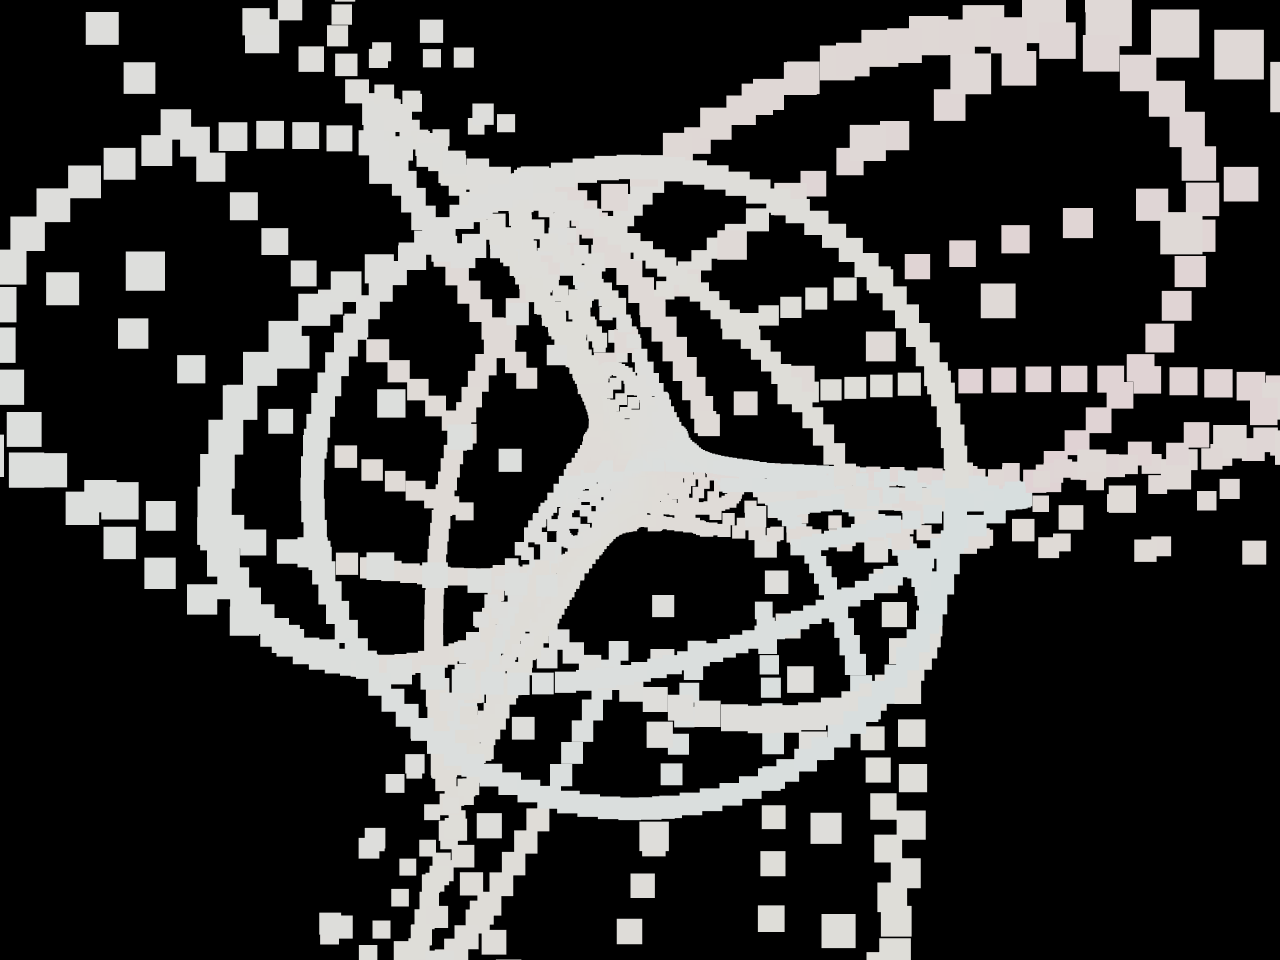
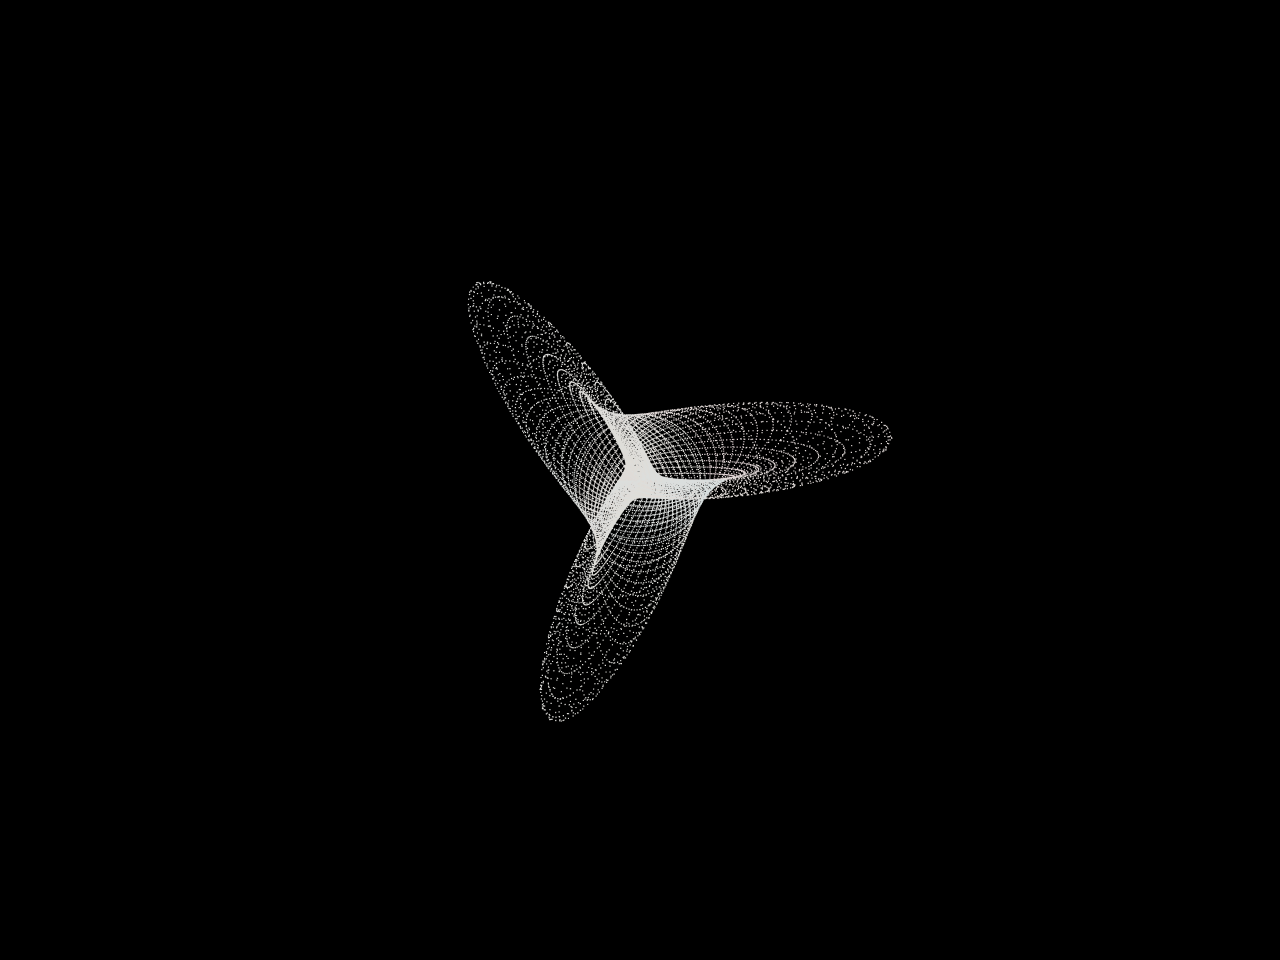
Restore Boy jury framing; only bump particle count.

diff --git a/packages/frontend/src/utils/boySurface.ts b/packages/frontend/src/utils/boySurface.ts
@@ -5,8 +5,6 @@ const SQRT5 = Math.sqrt(5)
 const U_RES = 80
 const V_RES = 80
 const TARGET_R = 1.7
-/** Trails / wires fill the frame better than the mesh scale. */
-const TARGET_R_TRAIL = 3.1
 
 export type BoyPoint = {
 	x: number
@@ -220,7 +218,7 @@ export function sampleBoyCloud(nu = 96, nv = 96): BoyCloud {
  * Row-major UV scan as one polyline (legacy line trail).
  * Odd rows reverse so the strip snakes continuously.
  */
-export function sampleBoyScanline(nu = 160, nv = 96): BoyCloud {
+export function sampleBoyScanline(nu = 200, nv = 140): BoyCloud {
 	const count = nu * nv
 	const positions = new Float32Array(count * 3)
 	const colors = new Float32Array(count * 3)
@@ -241,15 +239,12 @@ export function sampleBoyScanline(nu = 160, nv = 96): BoyCloud {
 			k += 3
 		}
 	}
-	centerAndScale(positions, TARGET_R_TRAIL)
-	return thinNearOrigin(positions, colors, 0.32)
+	centerAndScale(positions, TARGET_R)
+	return { positions, colors, count }
 }
 
-/**
- * Constant-u / constant-v curves as a point wire.
- * Fewer curves than a dense grid — keeps the triple-point open instead of a white clump.
- */
-export function sampleBoyIsolines(nu = 18, nv = 18, samples = 96): BoyCloud {
+/** Constant-u / constant-v curves as a dense point wire. */
+export function sampleBoyIsolines(nu = 64, nv = 64, samples = 200): BoyCloud {
 	const count = (nu + nv) * samples
 	const positions = new Float32Array(count * 3)
 	const colors = new Float32Array(count * 3)
@@ -282,30 +277,8 @@ export function sampleBoyIsolines(nu = 18, nv = 18, samples = 96): BoyCloud {
 			k += 3
 		}
 	}
-	centerAndScale(positions, TARGET_R_TRAIL)
-	return thinNearOrigin(positions, colors, 0.55)
-}
-
-/** Drop verts inside a ball so the triple-point does not paint solid white. */
-function thinNearOrigin(positions: Float32Array, colors: Float32Array, minR: number): BoyCloud {
-	const kept: number[] = []
-	const keptC: number[] = []
-	const minR2 = minR * minR
-	for (let i = 0; i < positions.length; i += 3) {
-		const x = positions[i]
-		const y = positions[i + 1]
-		const z = positions[i + 2]
-		if (x * x + y * y + z * z < minR2) {
-			continue
-		}
-		kept.push(x, y, z)
-		keptC.push(colors[i], colors[i + 1], colors[i + 2])
-	}
-	return {
-		positions: new Float32Array(kept),
-		colors: new Float32Array(keptC),
-		count: kept.length / 3,
-	}
+	centerAndScale(positions, TARGET_R)
+	return { positions, colors, count }
 }
 
 export function buildBryantBoyMesh(): BoyMesh {

diff --git a/packages/frontend/src/pages/misc/boy_jury_isolines.tsx b/packages/frontend/src/pages/misc/boy_jury_isolines.tsx
@@ -47,9 +47,9 @@ const BoyJuryIsolines = () => {
 		<Base<TData>
 			dimension={EDimensions.THREE_D}
 			numParticles={cloud.count}
-			pointSize={0.07}
+			pointSize={1.2}
 			tick={tick}
-			cameraPosition={[0, 0.15, 2.05]}
+			cameraPosition={[0, 0, 4.2]}
 			autoRotate={!isScreenshotMode()}
 			autoRotateSpeed={0.28}
 		/>

diff --git a/packages/frontend/src/pages/misc/boy_jury_lines.tsx b/packages/frontend/src/pages/misc/boy_jury_lines.tsx
@@ -59,7 +59,7 @@ const BoyJuryLines = () => {
 			lineOpacity={0.92}
 			autoRotate={!isScreenshotMode()}
 			autoRotateSpeed={0.32}
-			cameraPosition={[0, 0.15, 2.05]}
+			cameraPosition={[0, 0, 4.2]}
 		/>
 	)
 }
